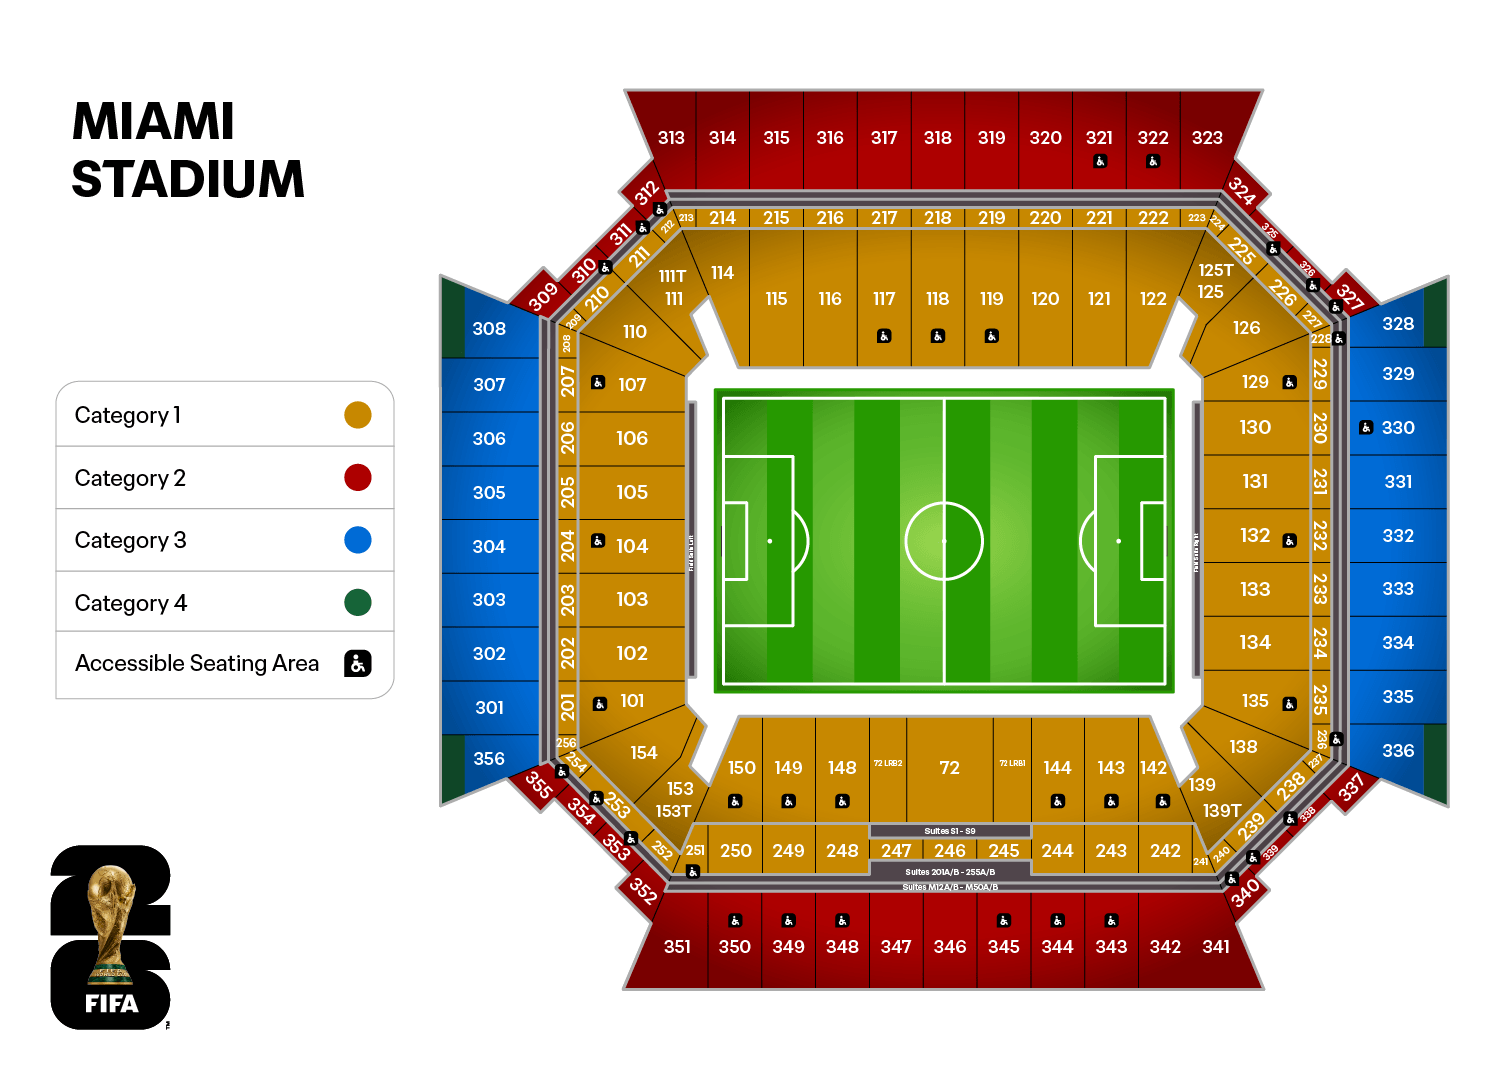
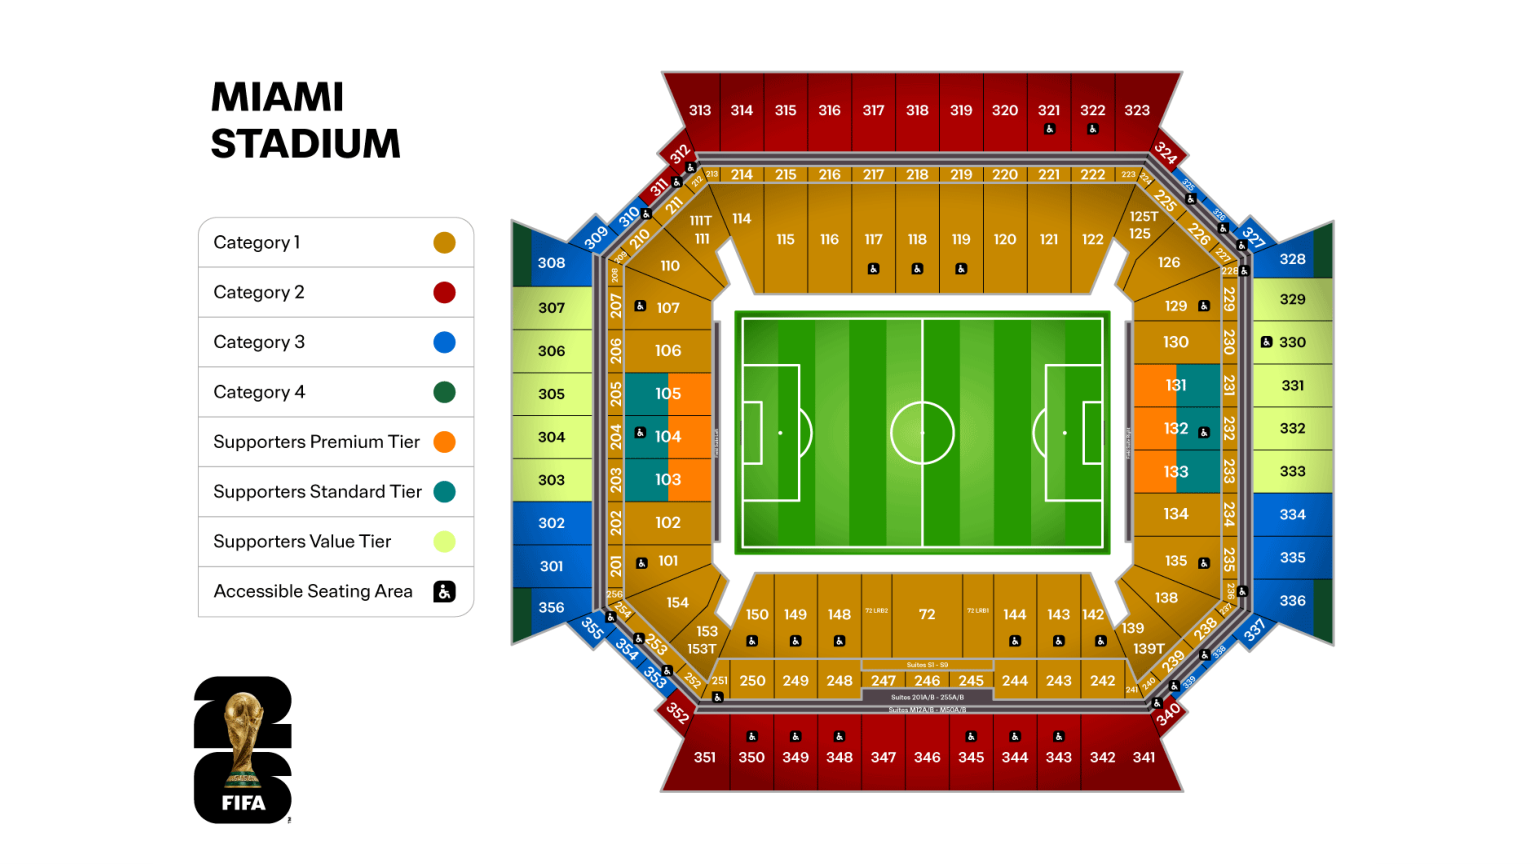
feat: update stadium maps, add Below Face tooltips, add Highest Markup sort
- Replace 16 stadium seating charts with official FIFA category-colored maps from Football Australia PDF
- Add hover/tap tooltip on "Below face!" badges showing exact multiplier (e.g., 0.82x face value)
- Make header "Below face!" badge respect Collect/RSD pricing toggle
- Add "Highest Markup" sort option to sort by biggest price-to-face multiplier
- Install @vercel/kv for upcoming supply history feature

diff --git a/src/components/MatchCard.tsx b/src/components/MatchCard.tsx
@@ -6,6 +6,7 @@ import type { MatchWithPrices } from "@/lib/types";
 import type { KnockoutPrediction } from "@/data/knockout-predictions";
 import { getTeamAggregates } from "@/data/knockout-predictions";
 import { formatDate, formatTime, getCollectUrl, parseTeams, getFlagUrl, getStadiumMapPath } from "@/lib/utils";
+import { getRsdFaceValue } from "@/data/rsd-prices";
 import { PriceTable } from "./PriceTable";
 import { StadiumMapModal } from "./StadiumMapModal";
 
@@ -114,6 +115,13 @@ export function MatchCard({ data, prediction, pricingSource = "collect" }: Match
     .filter((t) => t.floorPrice != null && t.floorPrice > 0)
     .sort((a, b) => a.floorPrice! - b.floorPrice!)[0];
 
+  // Resolve face value based on pricing toggle
+  const cheapestFaceValue = cheapestFloor
+    ? (pricingSource === "rsd"
+        ? (getRsdFaceValue(match.matchNo, cheapestFloor.category) ?? cheapestFloor.faceValue)
+        : cheapestFloor.faceValue)
+    : 0;
+
   // Use predicted teams when available (top matchup)
   const topMatchup = prediction?.matchups[0];
   const displayTeams = topMatchup
@@ -143,9 +151,12 @@ export function MatchCard({ data, prediction, pricingSource = "collect" }: Match
             <div className="text-base sm:text-lg font-bold text-emerald-600 dark:text-emerald-400">
               ${Math.round(cheapestFloor.floorPrice!)}
             </div>
-            {cheapestFloor.faceValue > 0 && cheapestFloor.floorPrice! <= cheapestFloor.faceValue && (
-              <div className="text-[9px] sm:text-[10px] font-semibold text-emerald-700 dark:text-emerald-300 bg-emerald-100 dark:bg-emerald-900/40 rounded px-1 py-0.5 mt-0.5">
+            {cheapestFaceValue > 0 && cheapestFloor.floorPrice! <= cheapestFaceValue && (
+              <div className="relative group/bf text-[9px] sm:text-[10px] font-semibold text-emerald-700 dark:text-emerald-300 bg-emerald-100 dark:bg-emerald-900/40 rounded px-1 py-0.5 mt-0.5 cursor-help">
                 Below face!
+                <span className="absolute bottom-full right-0 mb-1 px-2 py-1 rounded bg-zinc-800 dark:bg-zinc-700 text-white text-[10px] font-semibold whitespace-nowrap opacity-0 pointer-events-none group-hover/bf:opacity-100 group-active/bf:opacity-100 transition-opacity z-50">
+                  {(cheapestFloor.floorPrice! / cheapestFaceValue).toFixed(2)}x face value
+                </span>
               </div>
             )}
           </div>

diff --git a/src/components/MatchGrid.tsx b/src/components/MatchGrid.tsx
@@ -66,6 +66,11 @@ export function MatchGrid({ matches }: MatchGridProps) {
           const bSav = getBestSavings(b, pricingSource);
           return bSav - aSav; // highest savings first
         }
+        case "markup": {
+          const aMark = getMaxMultiplier(a, pricingSource);
+          const bMark = getMaxMultiplier(b, pricingSource);
+          return bMark - aMark; // highest markup first
+        }
         case "match":
           return a.match.matchNo - b.match.matchNo;
         case "date":
@@ -110,6 +115,18 @@ function getMinFloor(m: MatchWithPrices): number {
     .filter((t) => t.floorPrice != null && t.floorPrice > 0)
     .map((t) => t.floorPrice!);
   return floors.length > 0 ? Math.min(...floors) : Infinity;
+}
+
+function getMaxMultiplier(m: MatchWithPrices, pricingSource: string): number {
+  const multipliers = m.tickets
+    .filter((t) => t.floorPrice != null && t.floorPrice > 0)
+    .map((t) => {
+      const face = pricingSource === "rsd"
+        ? (getRsdFaceValue(m.match.matchNo, t.category) ?? t.faceValue)
+        : t.faceValue;
+      return face > 0 ? t.floorPrice! / face : 0;
+    });
+  return multipliers.length > 0 ? Math.max(...multipliers) : 0;
 }
 
 function getBestSavings(m: MatchWithPrices, pricingSource: string): number {

diff --git a/src/components/PriceTable.tsx b/src/components/PriceTable.tsx
@@ -92,8 +92,11 @@ export function PriceTable({ tickets, resalePrices, matchNo, pricingSource = "co
                     const multiplier = ticket.floorPrice! / faceValue;
                     if (multiplier <= 1) {
                       return (
-                        <span className="text-emerald-600 dark:text-emerald-400 font-medium">
+                        <span className="relative group/bf text-emerald-600 dark:text-emerald-400 font-medium cursor-help">
                           Below face!
+                          <span className="absolute bottom-full right-0 mb-1 px-2 py-1 rounded bg-zinc-800 dark:bg-zinc-700 text-white text-[10px] font-semibold whitespace-nowrap opacity-0 pointer-events-none group-hover/bf:opacity-100 group-active/bf:opacity-100 transition-opacity z-50">
+                            {multiplier.toFixed(2)}x face value
+                          </span>
                         </span>
                       );
                     }

diff --git a/src/components/MatchFilters.tsx b/src/components/MatchFilters.tsx
@@ -110,6 +110,7 @@ export function MatchFilters({ matches }: MatchFiltersProps) {
         <option value="date">Sort by Date</option>
         <option value="cheapest">Cheapest First</option>
         <option value="savings">Best Savings</option>
+        <option value="markup">Highest Markup</option>
         <option value="match">Match Number</option>
       </select>
 
